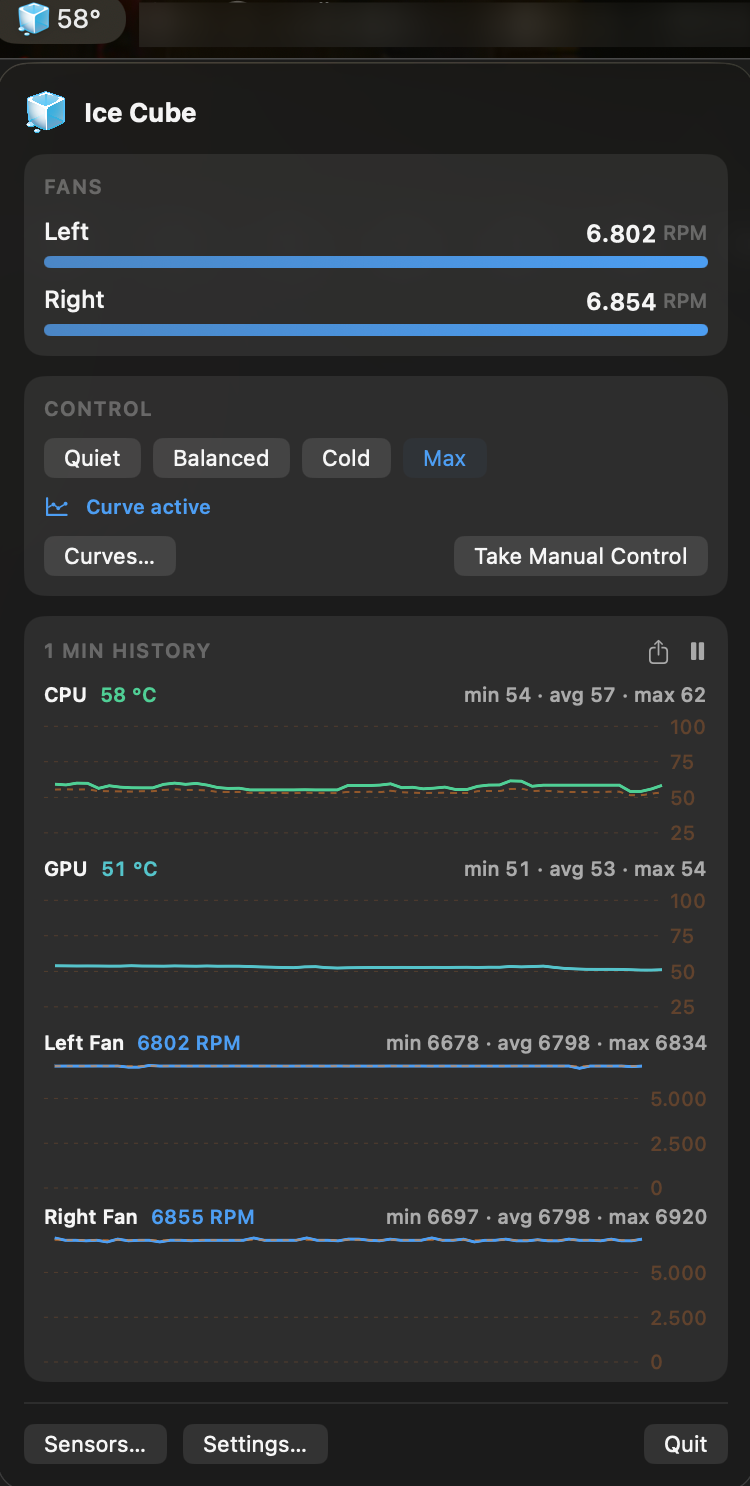
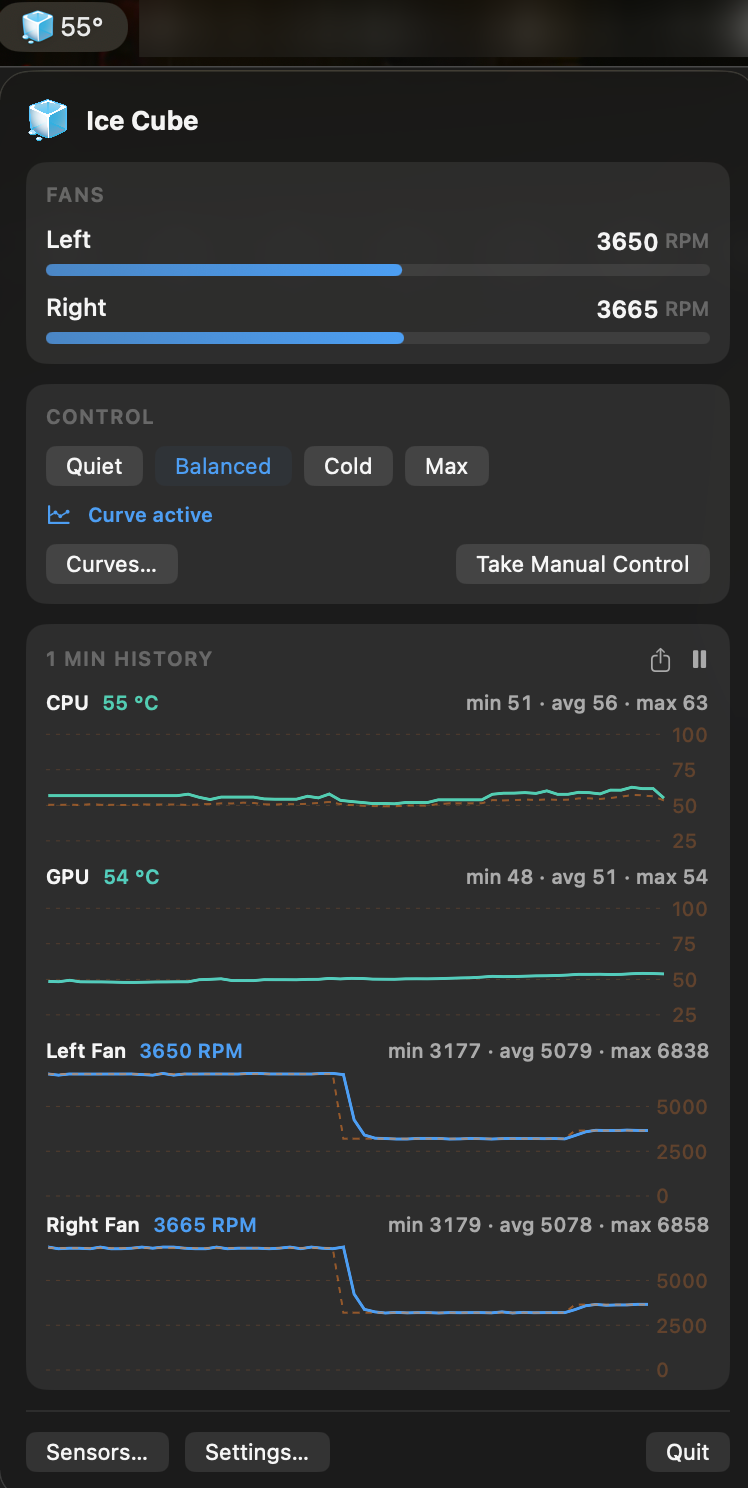
docs: drop the setup-window screenshot slot until it can be taken honestly
The slot pointed at a shot that cannot be taken on a configured machine.
With fan control enabled there is no setup entry point anywhere: Settings
puts 'Reinstall' in that slot, and the popover only offers a setup prompt
when the helper is missing or version-mismatched. My own capture
instructions sent the owner looking for a 'Set Up...' button that was not
there, which is how the curve editor ended up filed as setup.png.

Unregistering a working daemon to stage the photo risks the exact
registration flakiness the setup flow exists to paper over, on a free Apple
ID where re-approval is fiddly. The free moment for this shot is a
clean-machine install test, so RELEASING.md now says that and the README
links only the three images that exist.

diff --git a/docs/RELEASING.md b/docs/RELEASING.md
@@ -13,10 +13,15 @@ you read the generated notes and press publish.
 
 ## Before the FIRST public push
 
-- [ ] `docs/img/` contains `popover.png`, `curve-editor.png`, `setup.png` and
-      `sensors.png`. `README.md` links to all four, so until they exist the
-      front page shows broken images to everyone who opens the repo. See
+- [ ] `docs/img/` contains `popover.png`, `curve-editor.png` and
+      `sensors.png`. `README.md` links to all three, so a missing one shows a
+      broken image to everyone who opens the repo. See
       [docs/img/README.md](img/README.md) for how to capture them.
+- [ ] *Optional:* a shot of the setup window for the "First run" section. It
+      can only be taken while fan control is **off** (with it on, Settings
+      offers "Reinstall" and there is no setup entry point at all), so the
+      free moment to take it is during a clean-machine install test — not by
+      unregistering a working daemon for a photo.
 
 ## Version bump checklist
 

diff --git a/docs/img/README.md b/docs/img/README.md
@@ -6,8 +6,16 @@ Fixed filenames — `README.md` links to these paths, so keep the names.
 | --- | --- | --- |
 | `popover.png` | Hero, under the intro | Click the menu-bar icon. Capture with ⌘⇧4 then **Space**, then click the popover. |
 | `curve-editor.png` | End of Features | Popover → **Curves…** |
-| `setup.png` | Install → First run | Popover → Settings… → Fan Control → **Set Up…** |
 | `sensors.png` | Supporting a new Mac model | Popover → **Sensors…** |
+
+Not currently linked from `README.md`:
+
+- `setup.png` — the setup window, for the "First run" section. There is **no
+  way to open it while fan control is enabled**: Settings shows "Reinstall"
+  in that slot, and the popover only offers a setup prompt when the helper is
+  missing or version-mismatched. Take it during a clean-machine install test
+  rather than unregistering a working daemon to stage it, and add the `<img>`
+  back to README.md when you do.
 
 Guidance:
 

diff --git a/README.md b/README.md
@@ -108,10 +108,6 @@ permission it needs. It watches for your approval and moves on as soon as you
 give it — no restarting, no hunting through menus. If the app isn't in your
 Applications folder yet, it offers to move itself there first.
 
-<p align="center">
-  <img src="docs/img/setup.png" alt="The Ice Cube setup window, showing the single approval step and a live indicator that watches for it." width="520">
-</p>
-
 **Monitoring works immediately without any of this.** The permission is only
 for *changing* fan speeds, and you can skip it and turn it on later from the
 Ice Cube menu.
